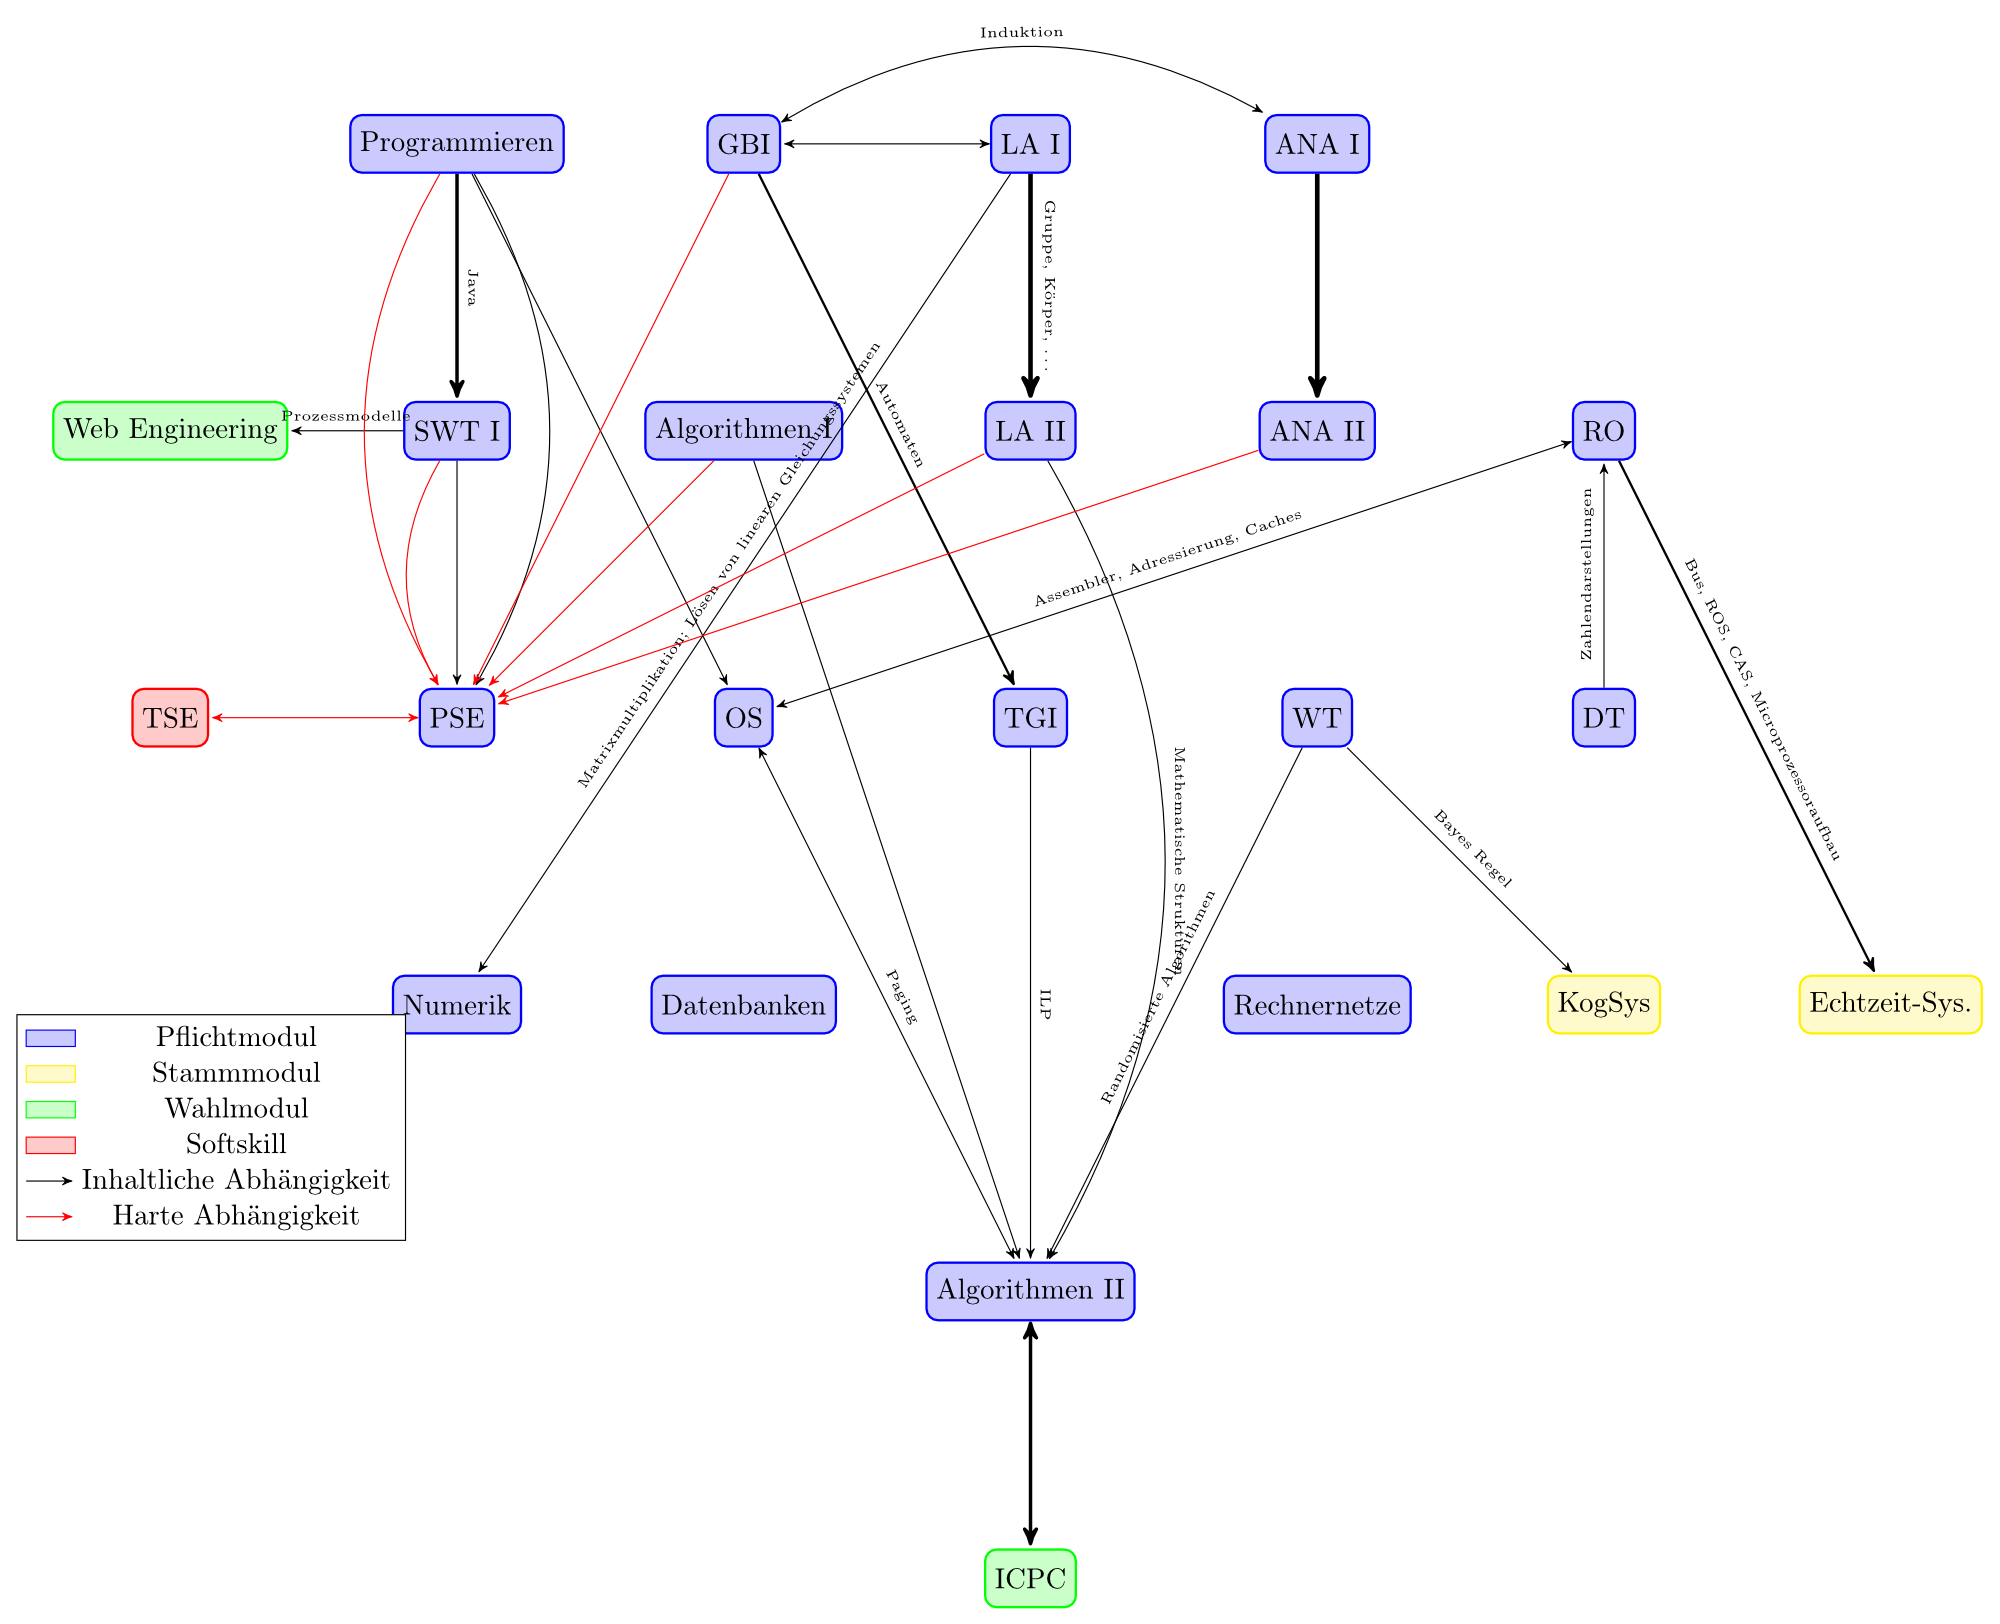
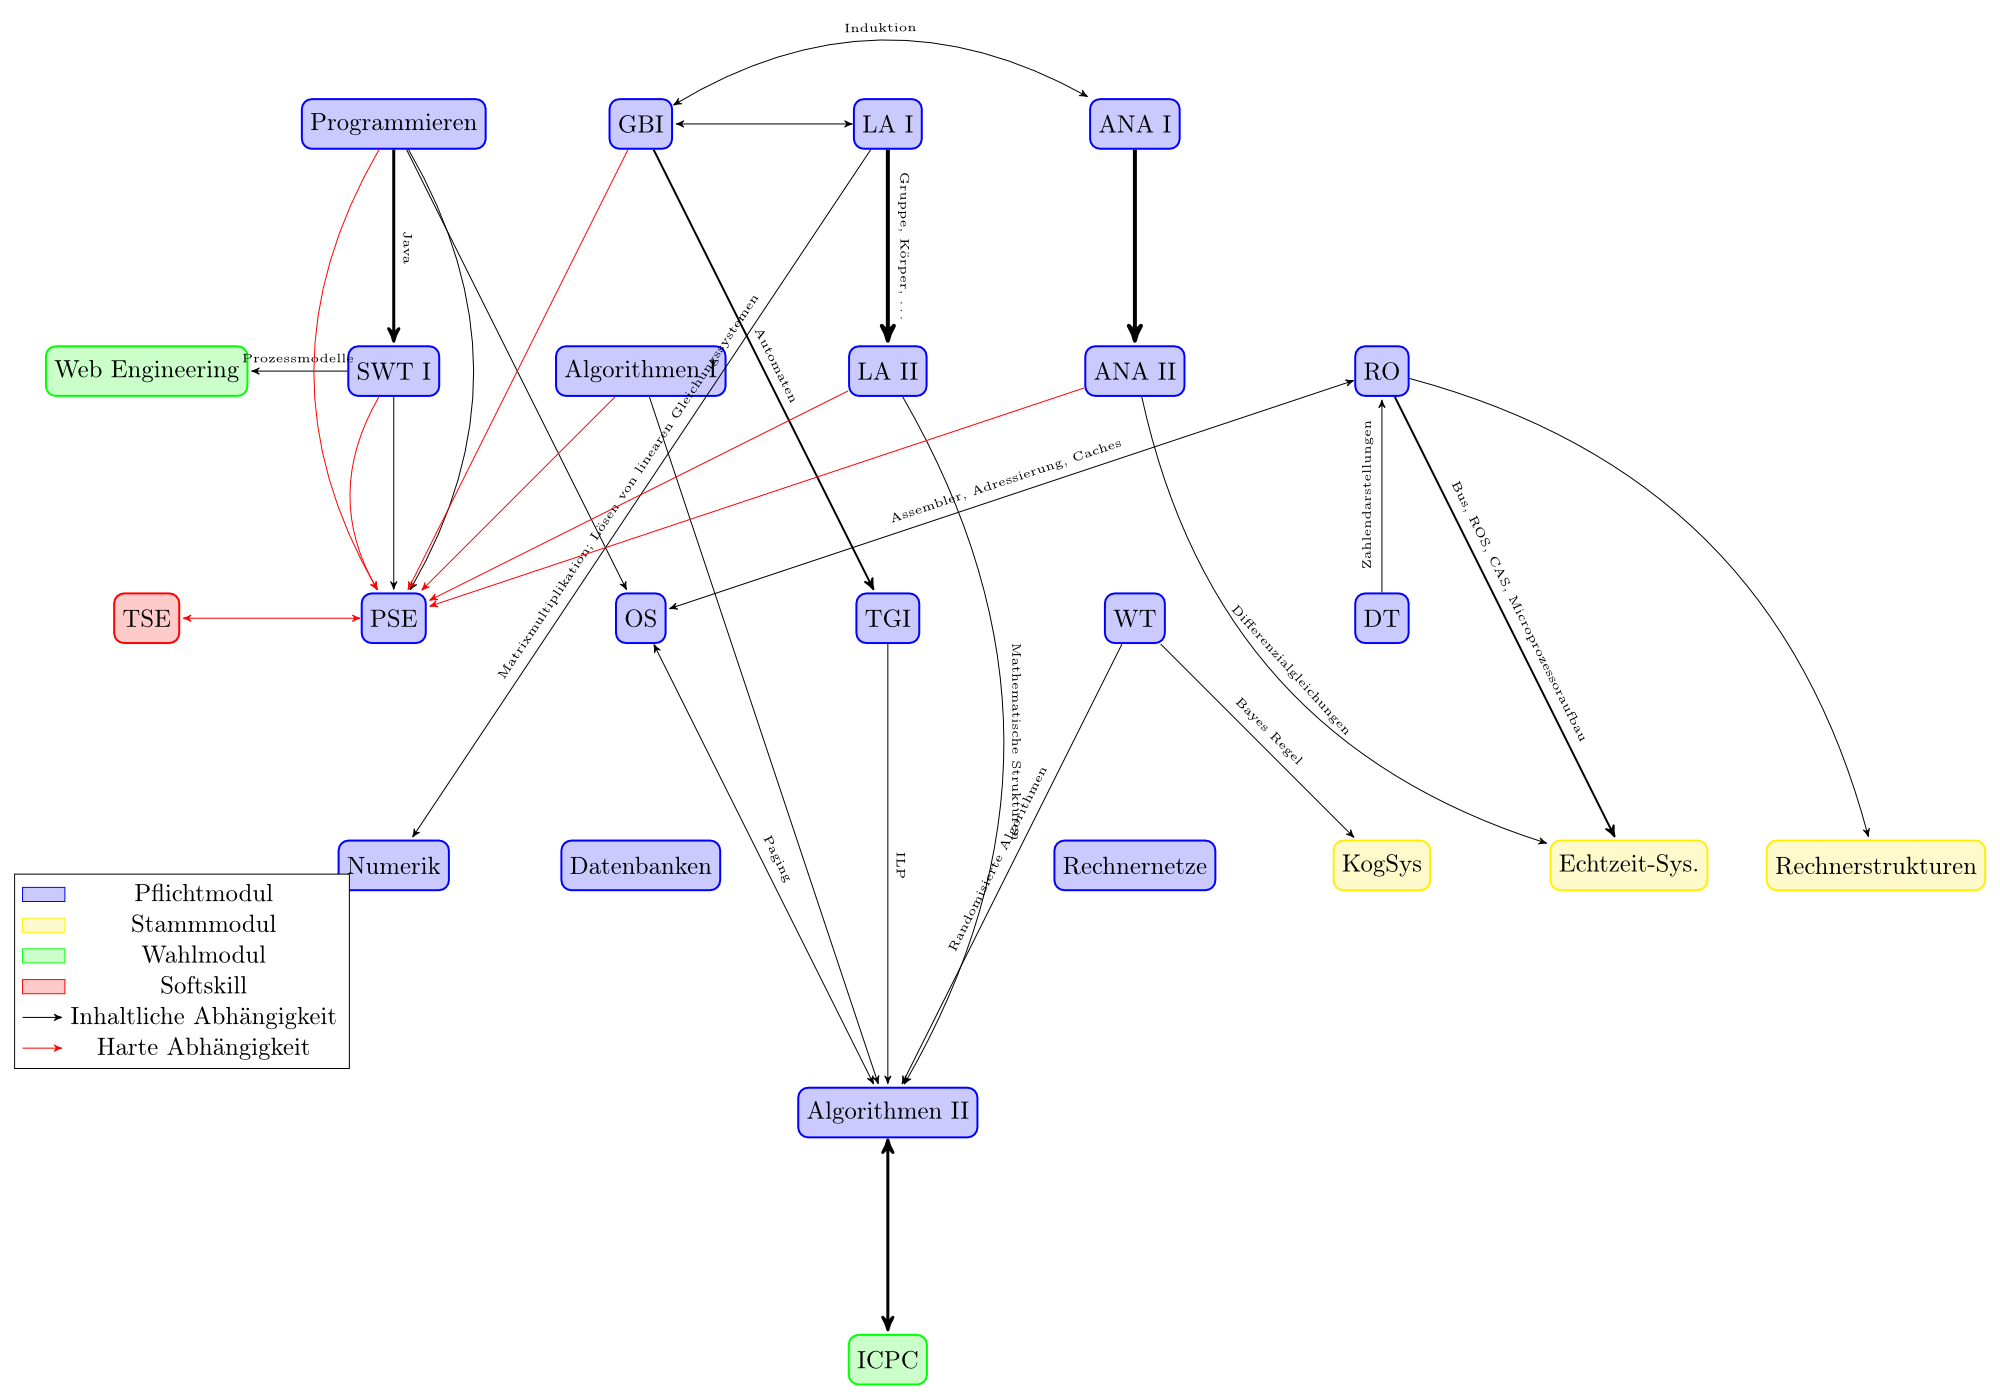
informatikstudium-kit-abhaengigkeitsgraph: added rechnerstrukturen

diff --git a/tikz/informatikstudium-kit-abhaengigkeitsgraph/informatikstudium-kit-abhaengigkeitsgraph.tex b/tikz/informatikstudium-kit-abhaengigkeitsgraph/informatikstudium-kit-abhaengigkeitsgraph.tex
@@ -58,6 +58,7 @@ soft/.style ={rectangle, draw=red, thick, fill=red!20,align=center, rounded corn
     \node[pflicht] (rechnernetze)    [below of=wt] {Rechnernetze};
     \node[stammmodul]   (KogSys)    [right of=rechnernetze] {KogSys};
     \node[stammmodul]   (Echtzeitsysteme)    [right of=KogSys] {Echtzeit-Sys.};
+    \node[stammmodul]   (Rechnerstrukturen)  [right of=Echtzeitsysteme] {Rechnerstrukturen};
 
     \node[pflicht] (algii)  [right of=datenbanken, below of=datenbanken] {Algorithmen II};
 
@@ -95,7 +96,9 @@ soft/.style ={rectangle, draw=red, thick, fill=red!20,align=center, rounded corn
     \path[->] (swti)    edge[red, bend right] node {} (pse);
     \path[->] (gbi)     edge[red] node {} (pse);
     \path[<->] (os)     edge node[anchor=center,above,sloped] {\tiny{Paging}} (algii);
-    \path[->] (ro)     edge[thick] node[anchor=center,above,sloped] {\tiny{Bus, ROS, CAS, Microprozessoraufbau}} (Echtzeitsysteme);
+    \path[->] (ro)      edge[thick] node[anchor=center,above,sloped] {\tiny{Bus, ROS, CAS, Microprozessoraufbau}} (Echtzeitsysteme);
+    \path[->] (anaii)   edge[bend right] node[anchor=center,above,sloped] {\tiny{Differenzialgleichungen}} (Echtzeitsysteme);
+    \path[->] (ro)   edge[bend left] node[anchor=center,above,sloped] {} (Rechnerstrukturen);
 
     \begin{customlegend}[legend entries={Pflichtmodul,Stammmodul,Wahlmodul,Softskill,Inhaltliche Abhängigkeit,Harte Abhängigkeit},legend style={at={(-3,-12)},anchor=center}]
     \addlegendimage{blue,fill=blue!20,area legend}

diff --git a/tikz/informatikstudium-kit-abhaengigkeitsgraph/README.md b/tikz/informatikstudium-kit-abhaengigkeitsgraph/README.md
@@ -2,9 +2,10 @@ Der hier abgebildete Graph gibt Abhängigkeiten an, wie ich sie wahrnehme.
 
 ![Example](informatikstudium-kit-abhaengigkeitsgraph.png)
 
-## Empfehlungen
+## Empfehlungen und Kommentare
 
 * Will man Caches verstehen, sollte man die TI-Klausuren rechnen. Weder die OS-Folien, noch die TI-Folien erklären sie so gut wie die TI-KLausuren.
+* Die OS zu Algorithmen 2 Abhängigkeit ist bei Prautzsch ist das nicht mehr vorhanden.
 
 ## Abkürzeungen
 
